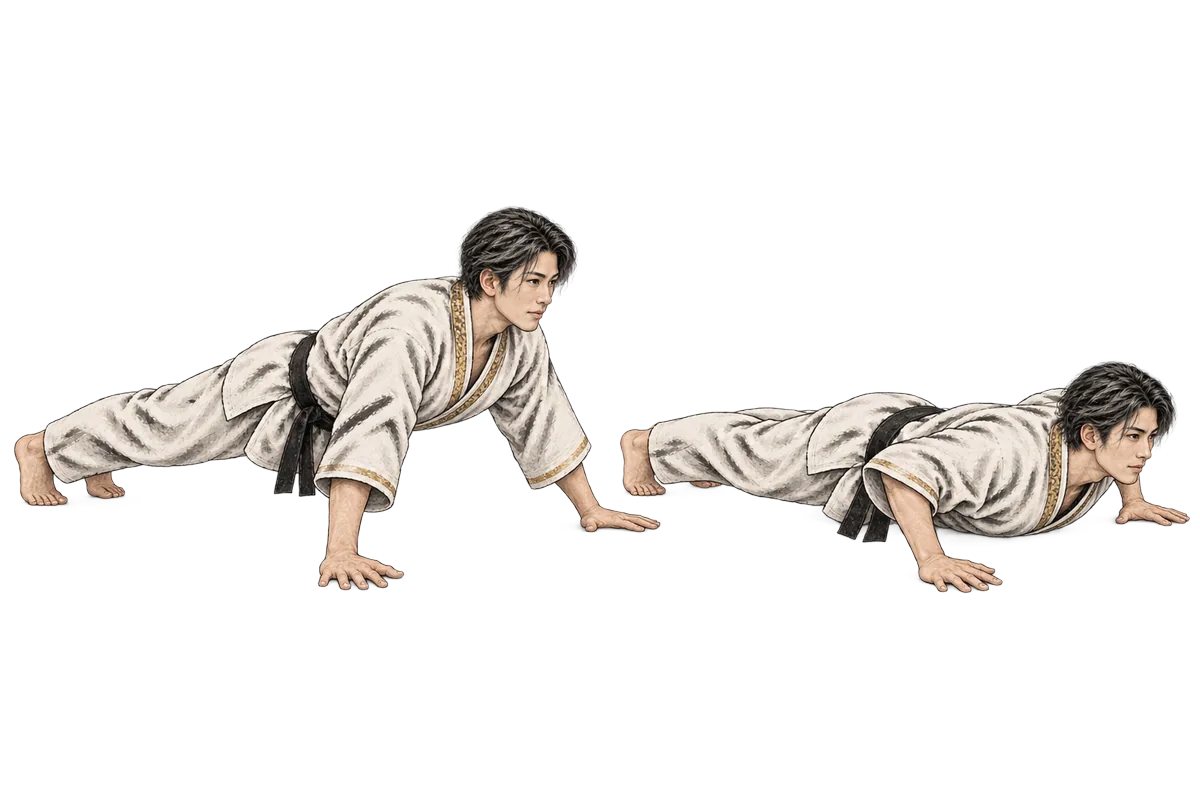
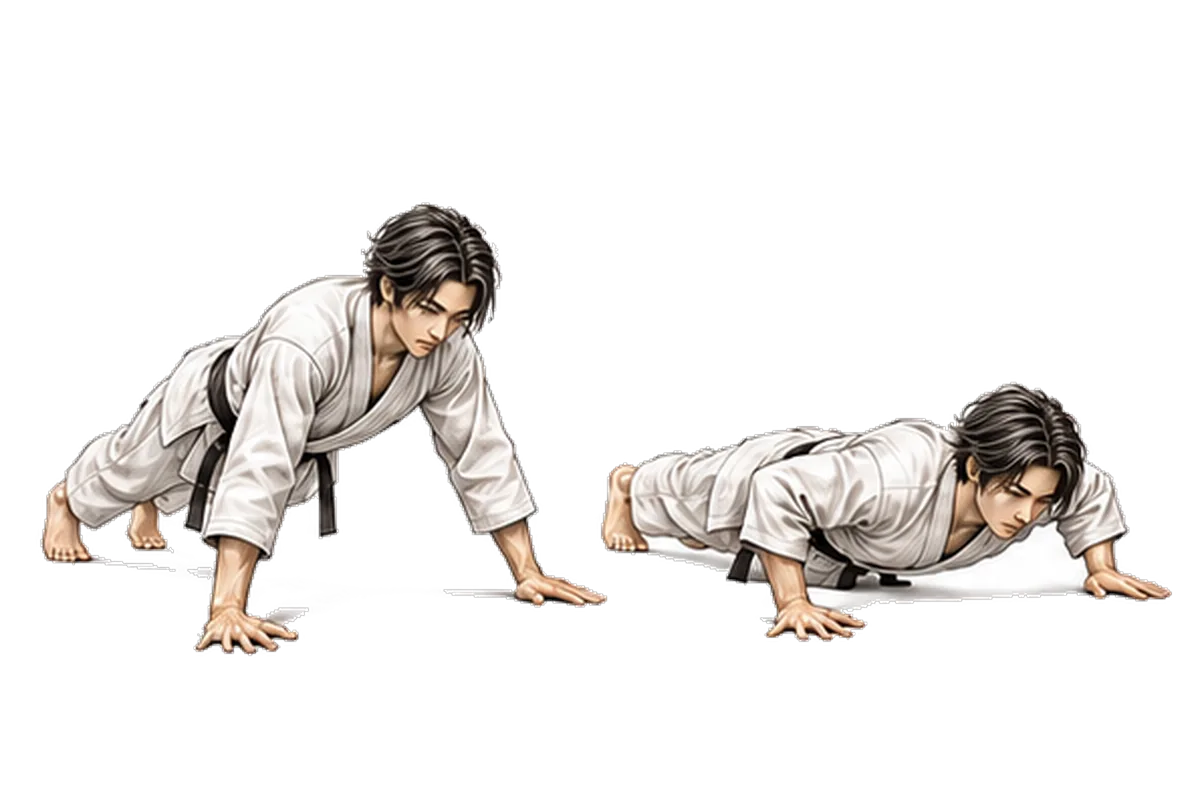
v0.21.15: Replace Push-up step pictures with gi versions
Claude-Session: https://claude.ai/code/session_01KcNjAAMXczDP8kvpzxopU7

Changed region(s): [[0.0, 0.25, 1.0, 0.8438]]

diff --git a/index.html b/index.html
@@ -1157,7 +1157,7 @@ function microGoalCard(){
 }
 
 let currentAvatar='🧘';
-const APP_VERSION='v0.21.14';
+const APP_VERSION='v0.21.15';
 // 六種の修行のカテゴリ色（すごろくの円グラフ配色に使用）
 const CAT_COLORS={ push:'#D55E00', pull:'#E69F00', squat:'#56B4E9', core:'#F0E442', bridge:'#0072B2', hand:'#009E73' };
 let SUM=EX.reduce((a,e)=>a+e.cur,0);
